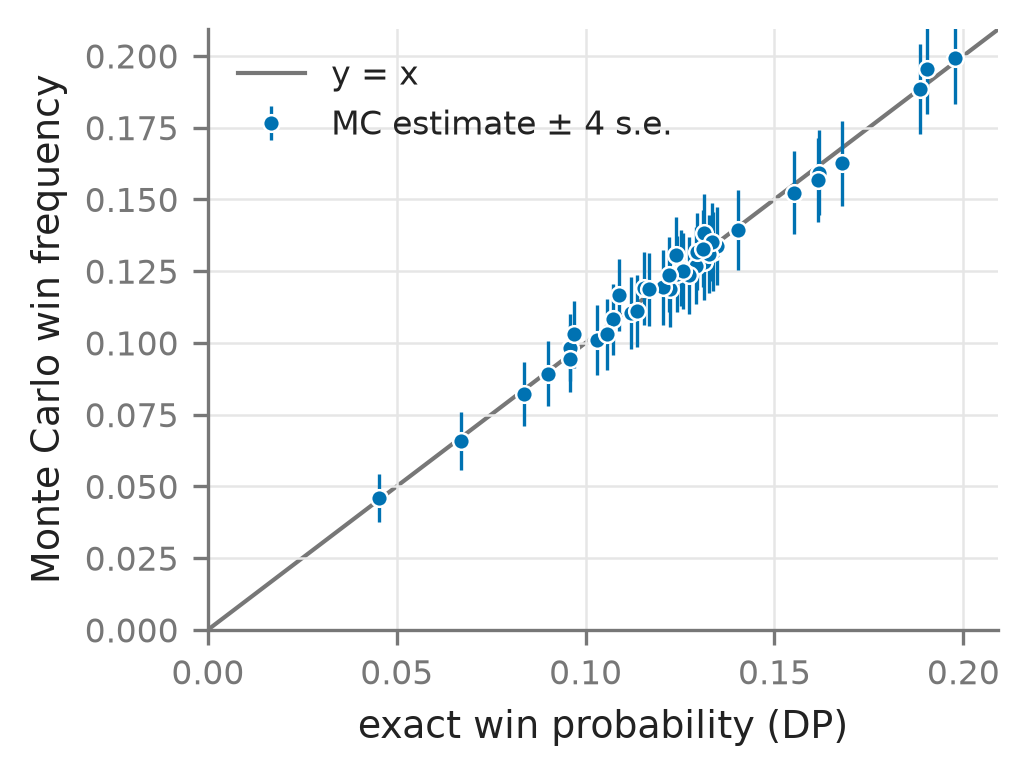
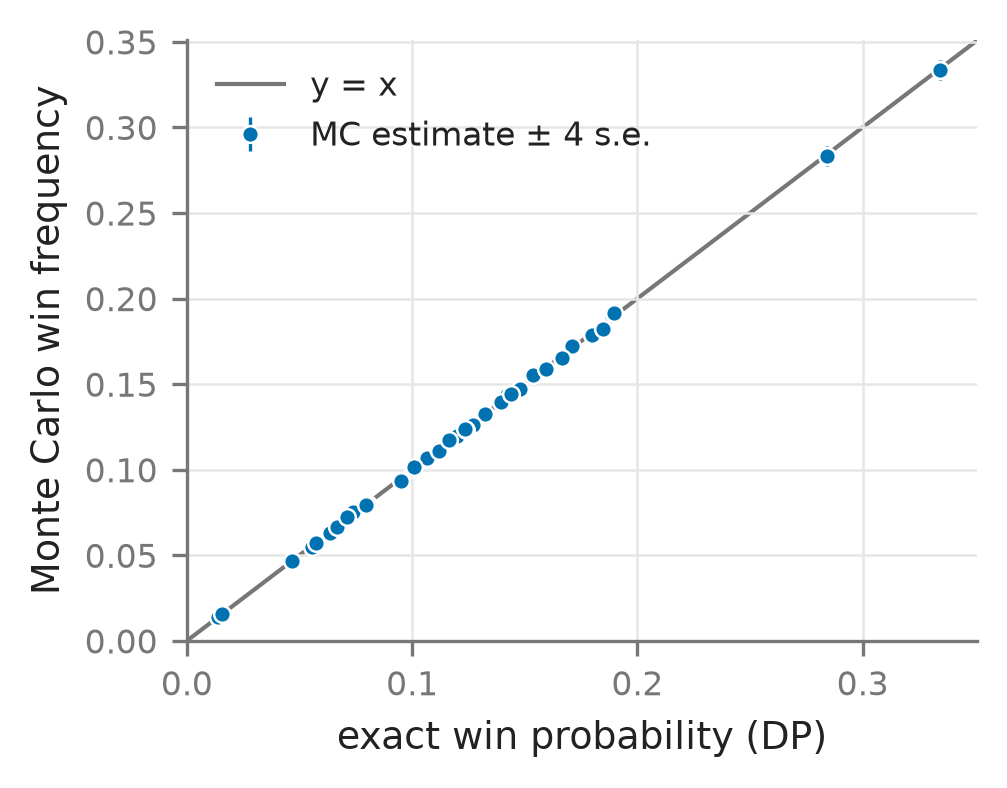
runlog: ignore outputs/ when flagging a dirty tree

diff --git a/src/km/runlog.py b/src/km/runlog.py
@@ -14,10 +14,10 @@ FIG_DIR = ROOT / "outputs" / "fig"
 
 
 def git_commit() -> str:
-    """Short commit hash, with '+dirty' if the tracked tree has uncommitted changes; 'nogit' outside a repo."""
+    """Short commit hash, with '+dirty' if the tracked tree (outside outputs/) has uncommitted changes; 'nogit' outside a repo."""
     try:
         h = subprocess.run(["git", "rev-parse", "--short", "HEAD"], cwd=ROOT, capture_output=True, text=True, check=True).stdout.strip()
-        dirty = subprocess.run(["git", "status", "--porcelain", "--untracked-files=no"], cwd=ROOT, capture_output=True, text=True).stdout.strip()
+        dirty = subprocess.run(["git", "status", "--porcelain", "--untracked-files=no", "--", ".", ":!outputs"], cwd=ROOT, capture_output=True, text=True).stdout.strip()
         return h + ("+dirty" if dirty else "")
     except (subprocess.CalledProcessError, FileNotFoundError):
         return "nogit"
